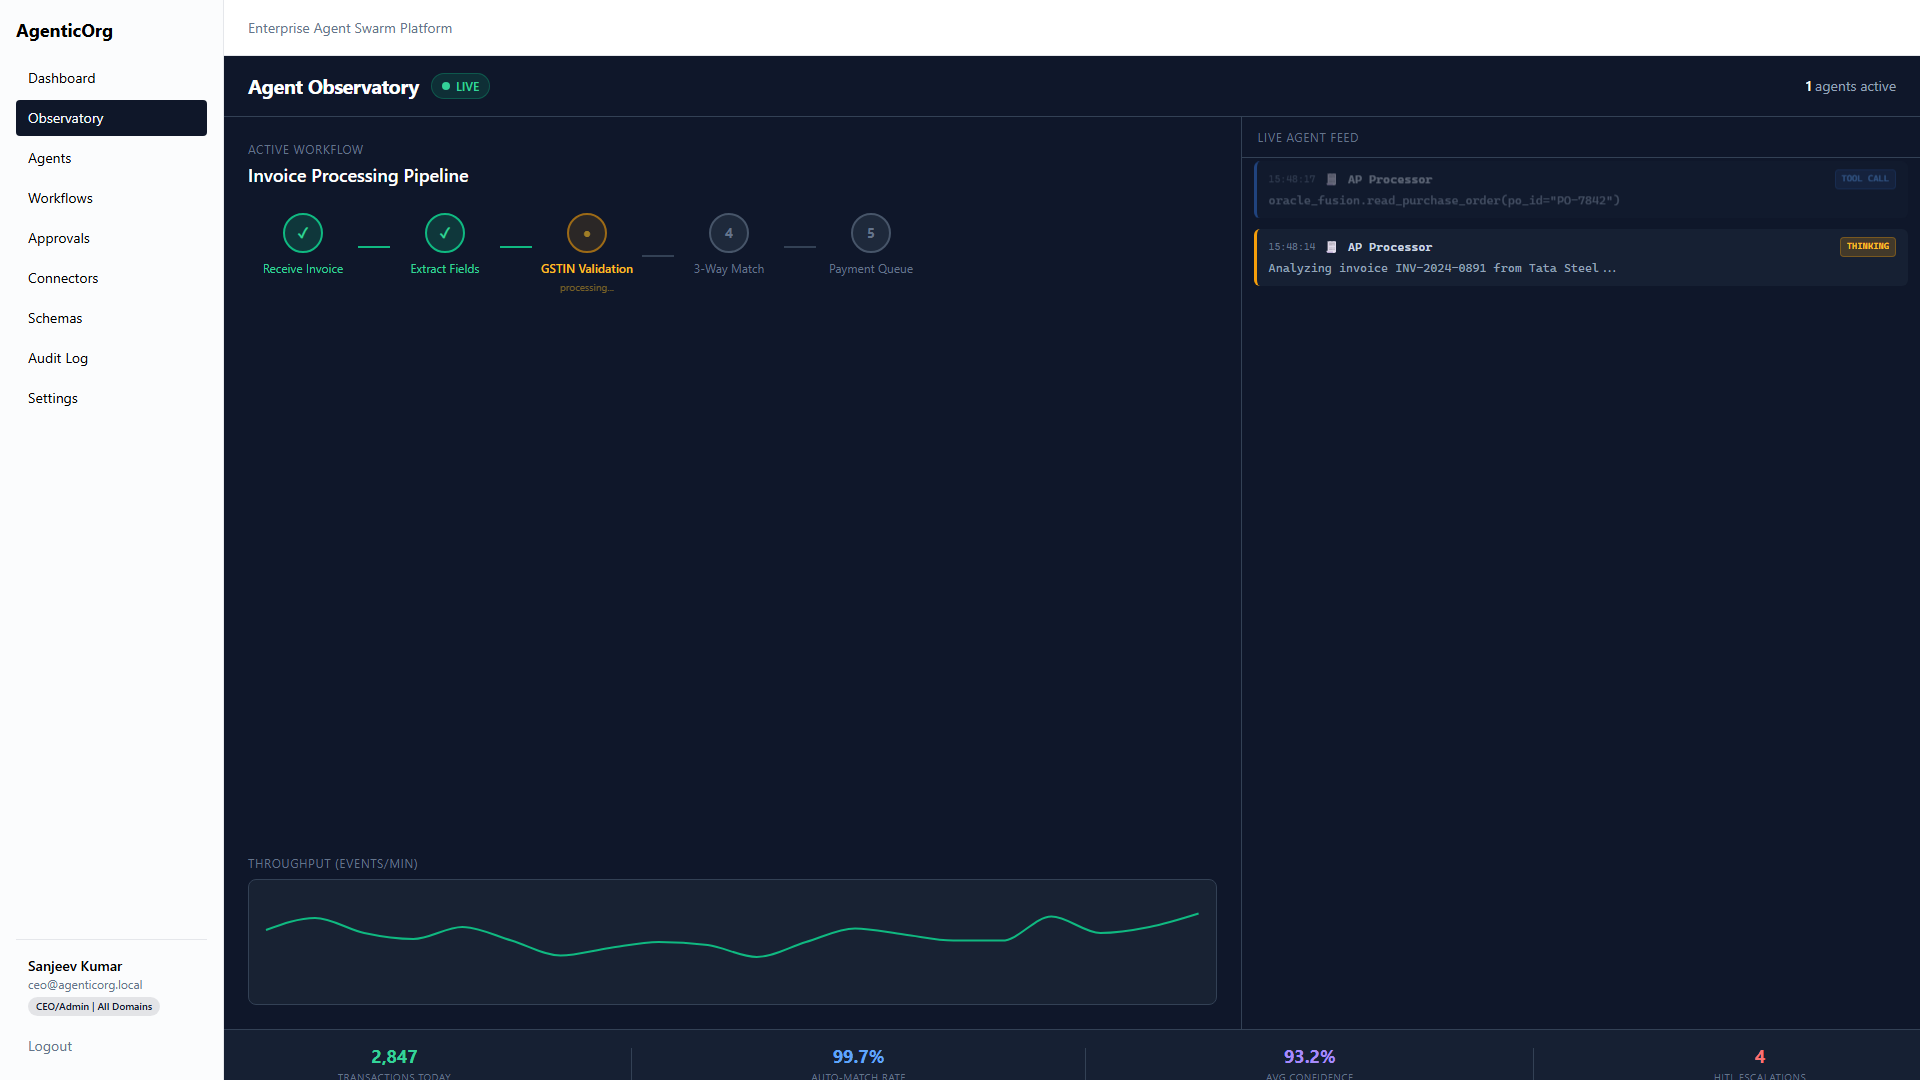
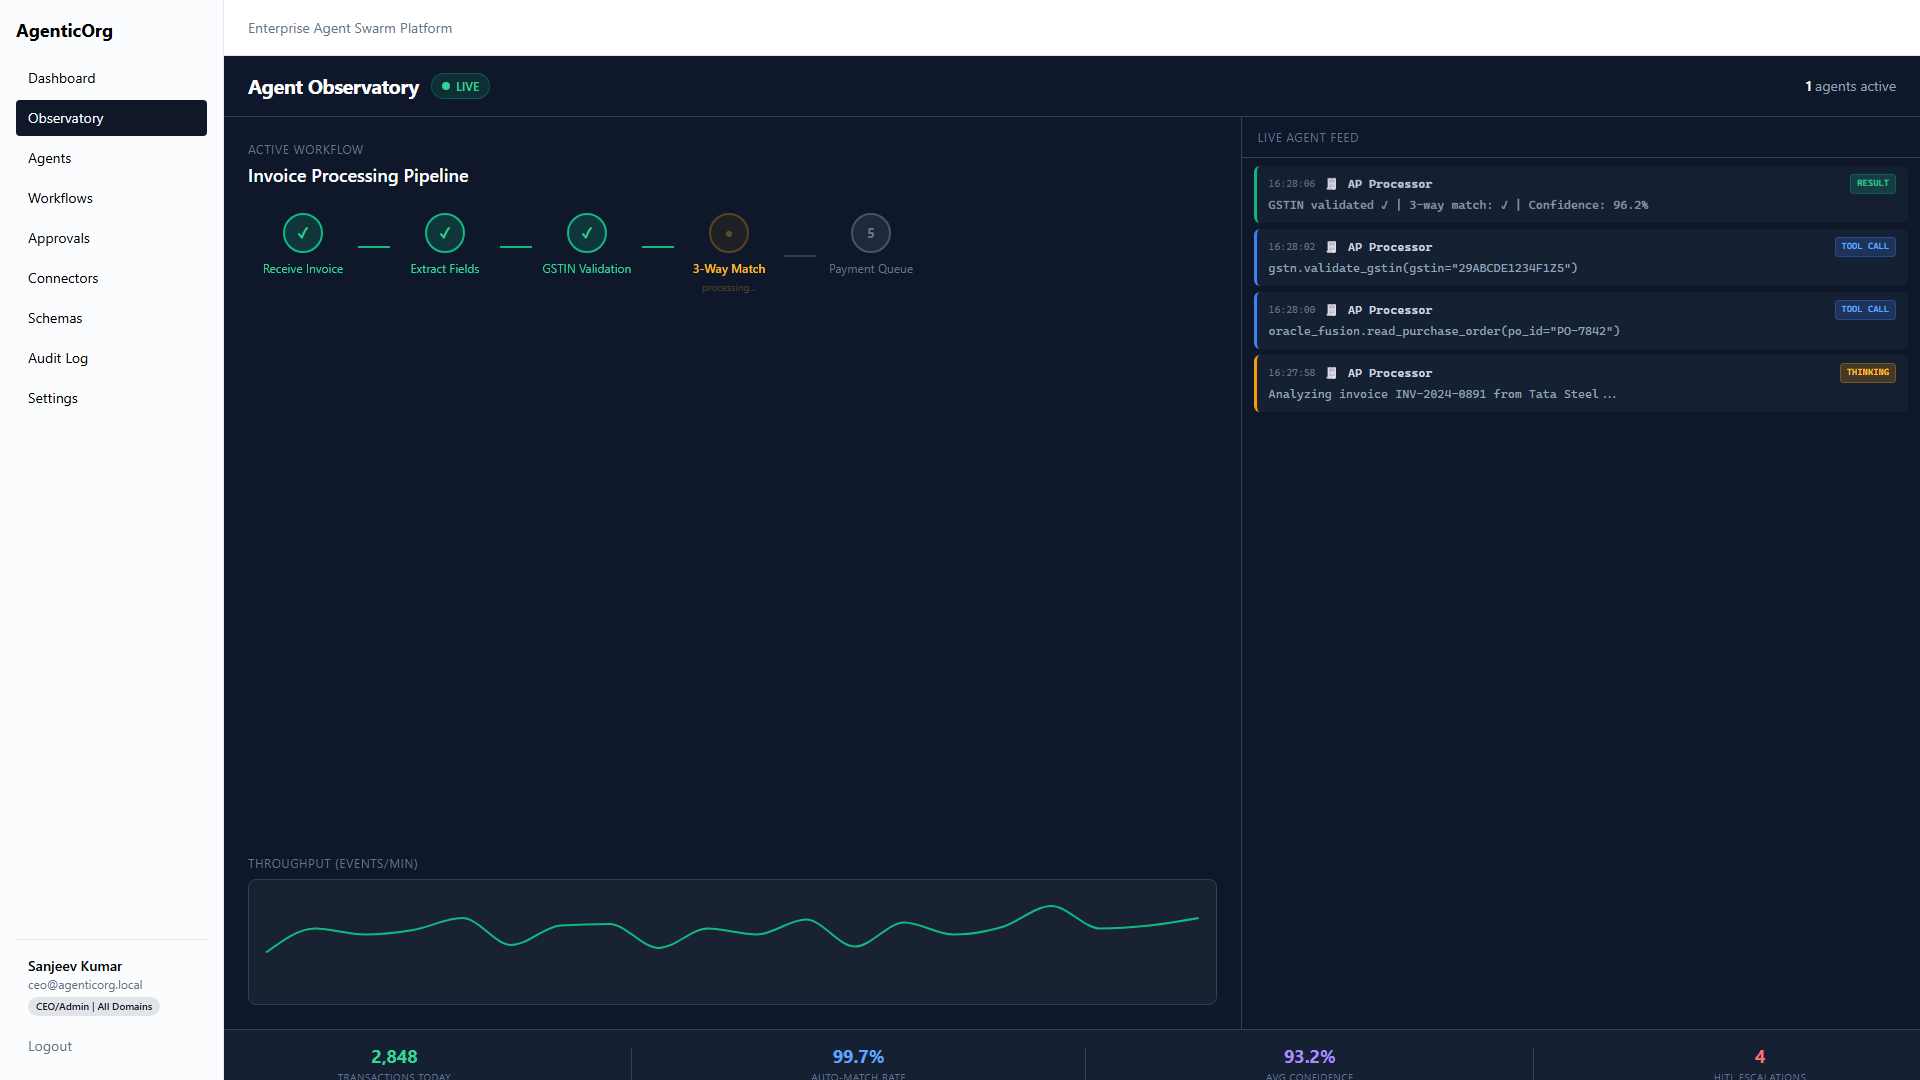
feat: Book a Demo modal form with backend storage, retake screenshots
- Replace mailto links with proper demo request form modal
- POST /api/v1/demo-request stores to DB (no email exposed in frontend)
- Form: Name, Email, Company, Role dropdown, Phone
- Success state with confirmation message
- Retake all screenshots with 5-10s wait for full data population
- Observatory screenshot now shows populated live agent feed

diff --git a/ui/src/pages/Landing.tsx b/ui/src/pages/Landing.tsx
@@ -1,4 +1,4 @@
-import { useState, useRef, useCallback } from "react";
+import { useState, useRef, useCallback, useEffect, type FormEvent } from "react";
 import { Link } from "react-router-dom";
 import ROICalculator from "../components/ROICalculator";
 
@@ -152,10 +152,169 @@ function CheckIcon({ className = "w-4 h-4 text-emerald-500" }: { className?: str
 }
 
 /* ------------------------------------------------------------------ */
+/*  DemoModal — Book-a-Demo form overlay                               */
+/* ------------------------------------------------------------------ */
+function DemoModal({ onClose }: { onClose: () => void }) {
+  const [form, setForm] = useState({ name: "", email: "", company: "", role: "", phone: "" });
+  const [submitting, setSubmitting] = useState(false);
+  const [done, setDone] = useState(false);
+  const [error, setError] = useState("");
+
+  // Close on Escape key
+  useEffect(() => {
+    const handler = (e: KeyboardEvent) => { if (e.key === "Escape") onClose(); };
+    window.addEventListener("keydown", handler);
+    return () => window.removeEventListener("keydown", handler);
+  }, [onClose]);
+
+  const handleSubmit = async (e: FormEvent) => {
+    e.preventDefault();
+    setError("");
+    setSubmitting(true);
+    try {
+      const res = await fetch("/api/v1/demo-request", {
+        method: "POST",
+        headers: { "Content-Type": "application/json" },
+        body: JSON.stringify(form),
+      });
+      if (!res.ok) throw new Error("Request failed");
+      setDone(true);
+    } catch {
+      setError("Something went wrong. Please try again.");
+    } finally {
+      setSubmitting(false);
+    }
+  };
+
+  const fieldClass =
+    "w-full rounded-lg border border-slate-300 bg-white px-4 py-2.5 text-sm text-slate-900 placeholder-slate-400 focus:border-blue-500 focus:ring-2 focus:ring-blue-500/20 outline-none transition-all";
+
+  return (
+    <div
+      className="fixed inset-0 z-[100] flex items-center justify-center bg-black/60 backdrop-blur-sm px-4"
+      onClick={(e) => { if (e.target === e.currentTarget) onClose(); }}
+    >
+      <div className="relative w-full max-w-md rounded-2xl bg-white shadow-2xl p-8 animate-in fade-in zoom-in">
+        {/* Close button */}
+        <button
+          onClick={onClose}
+          className="absolute top-4 right-4 text-slate-400 hover:text-slate-600 transition-colors"
+          aria-label="Close"
+        >
+          <svg className="w-5 h-5" fill="none" stroke="currentColor" viewBox="0 0 24 24">
+            <path strokeLinecap="round" strokeLinejoin="round" strokeWidth={2} d="M6 18L18 6M6 6l12 12" />
+          </svg>
+        </button>
+
+        {done ? (
+          <div className="text-center py-8">
+            <div className="w-16 h-16 rounded-full bg-emerald-100 flex items-center justify-center mx-auto mb-4">
+              <svg className="w-8 h-8 text-emerald-600" fill="none" stroke="currentColor" viewBox="0 0 24 24">
+                <path strokeLinecap="round" strokeLinejoin="round" strokeWidth={2} d="M5 13l4 4L19 7" />
+              </svg>
+            </div>
+            <h3 className="text-xl font-bold text-slate-900 mb-2">Thanks!</h3>
+            <p className="text-slate-600">We'll contact you within 24 hours.</p>
+            <button
+              onClick={onClose}
+              className="mt-6 inline-flex items-center justify-center bg-gradient-to-r from-blue-500 to-violet-600 text-white px-6 py-2.5 rounded-lg text-sm font-medium hover:from-blue-600 hover:to-violet-700 transition-all"
+            >
+              Close
+            </button>
+          </div>
+        ) : (
+          <>
+            <h3 className="text-xl font-bold text-slate-900 mb-1">Book a Demo</h3>
+            <p className="text-sm text-slate-500 mb-6">See AgenticOrg in action. Fill out the form and we'll schedule a call.</p>
+
+            <form onSubmit={handleSubmit} className="space-y-4">
+              <div>
+                <label className="block text-sm font-medium text-slate-700 mb-1">Name <span className="text-red-500">*</span></label>
+                <input
+                  required
+                  type="text"
+                  placeholder="Your full name"
+                  value={form.name}
+                  onChange={(e) => setForm({ ...form, name: e.target.value })}
+                  className={fieldClass}
+                />
+              </div>
+
+              <div>
+                <label className="block text-sm font-medium text-slate-700 mb-1">Work Email <span className="text-red-500">*</span></label>
+                <input
+                  required
+                  type="email"
+                  placeholder="you@company.com"
+                  value={form.email}
+                  onChange={(e) => setForm({ ...form, email: e.target.value })}
+                  className={fieldClass}
+                />
+              </div>
+
+              <div>
+                <label className="block text-sm font-medium text-slate-700 mb-1">Company</label>
+                <input
+                  type="text"
+                  placeholder="Company name"
+                  value={form.company}
+                  onChange={(e) => setForm({ ...form, company: e.target.value })}
+                  className={fieldClass}
+                />
+              </div>
+
+              <div>
+                <label className="block text-sm font-medium text-slate-700 mb-1">Role</label>
+                <select
+                  value={form.role}
+                  onChange={(e) => setForm({ ...form, role: e.target.value })}
+                  className={fieldClass}
+                >
+                  <option value="">Select your role</option>
+                  <option value="CEO">CEO</option>
+                  <option value="CFO">CFO</option>
+                  <option value="CHRO">CHRO</option>
+                  <option value="CMO">CMO</option>
+                  <option value="COO">COO</option>
+                  <option value="CTO">CTO</option>
+                  <option value="Other">Other</option>
+                </select>
+              </div>
+
+              <div>
+                <label className="block text-sm font-medium text-slate-700 mb-1">Phone</label>
+                <input
+                  type="tel"
+                  placeholder="+91 98765 43210"
+                  value={form.phone}
+                  onChange={(e) => setForm({ ...form, phone: e.target.value })}
+                  className={fieldClass}
+                />
+              </div>
+
+              {error && <p className="text-sm text-red-600">{error}</p>}
+
+              <button
+                type="submit"
+                disabled={submitting}
+                className="w-full bg-gradient-to-r from-blue-500 to-violet-600 text-white px-6 py-3 rounded-lg text-sm font-semibold hover:from-blue-600 hover:to-violet-700 transition-all shadow-lg shadow-blue-500/25 disabled:opacity-60 disabled:cursor-not-allowed"
+              >
+                {submitting ? "Submitting..." : "Request Demo"}
+              </button>
+            </form>
+          </>
+        )}
+      </div>
+    </div>
+  );
+}
+
+/* ------------------------------------------------------------------ */
 /*  Landing Page                                                       */
 /* ------------------------------------------------------------------ */
 export default function Landing() {
   const [mobileMenuOpen, setMobileMenuOpen] = useState(false);
+  const [showDemo, setShowDemo] = useState(false);
 
   const closeMobile = useCallback(() => setMobileMenuOpen(false), []);
 
@@ -191,12 +350,12 @@ export default function Landing() {
             >
               Sign In
             </Link>
-            <a
-              href="mailto:mishra.sanjeev@gmail.com?subject=AgenticOrg Demo Request&body=Hi Sanjeev,%0A%0AI'd like to book a demo of AgenticOrg.%0A%0AName:%0ACompany:%0ARole:%0APhone:%0A%0AThanks"
+            <button
+              onClick={() => setShowDemo(true)}
               className="hidden sm:inline-flex bg-gradient-to-r from-blue-500 to-violet-600 text-white px-5 py-2 rounded-lg text-sm font-medium hover:from-blue-600 hover:to-violet-700 transition-all shadow-lg shadow-blue-500/25"
             >
               Book a Demo
-            </a>
+            </button>
             <button onClick={() => setMobileMenuOpen(!mobileMenuOpen)} className="md:hidden text-white p-2" aria-label="Menu">
               <svg className="w-6 h-6" fill="none" stroke="currentColor" viewBox="0 0 24 24">
                 {mobileMenuOpen
@@ -215,7 +374,7 @@ export default function Landing() {
             <a href="#roi-calculator" onClick={closeMobile} className="block text-slate-300 hover:text-white text-sm">Pricing</a>
             <a href="#how-it-works" onClick={closeMobile} className="block text-slate-300 hover:text-white text-sm">Resources</a>
             <Link to="/login" onClick={closeMobile} className="block border border-slate-500 text-slate-300 px-4 py-2 rounded-lg text-sm font-medium text-center mt-2">Sign In</Link>
-            <a href="mailto:mishra.sanjeev@gmail.com?subject=AgenticOrg Demo Request&body=Hi Sanjeev,%0A%0AI'd like to book a demo of AgenticOrg.%0A%0AName:%0ACompany:%0ARole:%0APhone:%0A%0AThanks" onClick={closeMobile} className="block bg-gradient-to-r from-blue-500 to-violet-600 text-white px-4 py-2 rounded-lg text-sm font-medium text-center">Book a Demo</a>
+            <button onClick={() => { closeMobile(); setShowDemo(true); }} className="block w-full bg-gradient-to-r from-blue-500 to-violet-600 text-white px-4 py-2 rounded-lg text-sm font-medium text-center">Book a Demo</button>
           </div>
         )}
       </nav>
@@ -677,12 +836,12 @@ export default function Landing() {
               >
                 Start Free
               </Link>
-              <a
-                href="mailto:mishra.sanjeev@gmail.com?subject=AgenticOrg Demo Request&body=Hi Sanjeev,%0A%0AI'd like to book a demo of AgenticOrg.%0A%0AName:%0ACompany:%0ARole:%0APhone:%0A%0AThanks"
+              <button
+                onClick={() => setShowDemo(true)}
                 className="w-full sm:w-auto inline-flex items-center justify-center gap-2 border border-slate-600 text-slate-300 px-8 py-3.5 rounded-xl text-base font-semibold hover:bg-slate-800 hover:text-white transition-all"
               >
                 Book a Demo
-              </a>
+              </button>
             </div>
           </FadeIn>
         </div>
@@ -770,6 +929,9 @@ export default function Landing() {
           </div>
         </div>
       </footer>
+
+      {/* Demo modal */}
+      {showDemo && <DemoModal onClose={() => setShowDemo(false)} />}
     </div>
   );
 }

diff --git a/api/v1/demo.py b/api/v1/demo.py
@@ -1,0 +1,46 @@
+"""Demo request endpoint."""
+from __future__ import annotations
+
+from fastapi import APIRouter
+from pydantic import BaseModel
+from sqlalchemy import text
+
+from core.database import async_session_factory
+
+router = APIRouter()
+
+
+class DemoRequest(BaseModel):
+    name: str
+    email: str
+    company: str = ""
+    role: str = ""
+    phone: str = ""
+
+
+@router.post("/demo-request", status_code=201)
+async def submit_demo_request(body: DemoRequest):
+    """Accept a demo request and persist it."""
+    async with async_session_factory() as session:
+        await session.execute(
+            text(
+                "CREATE TABLE IF NOT EXISTS demo_requests ("
+                "id SERIAL PRIMARY KEY, name TEXT, email TEXT, company TEXT, "
+                "role TEXT, phone TEXT, created_at TIMESTAMPTZ DEFAULT NOW())"
+            )
+        )
+        await session.execute(
+            text(
+                "INSERT INTO demo_requests (name, email, company, role, phone) "
+                "VALUES (:name, :email, :company, :role, :phone)"
+            ),
+            {
+                "name": body.name,
+                "email": body.email,
+                "company": body.company,
+                "role": body.role,
+                "phone": body.phone,
+            },
+        )
+        await session.commit()
+    return {"status": "received", "message": "We'll be in touch within 24 hours."}

diff --git a/api/main.py b/api/main.py
@@ -23,6 +23,7 @@ from api.v1 import (
 from api.v1 import (
     auth as v1_auth,
 )
+from api.v1 import demo as v1_demo
 from api.websocket.feed import router as ws_feed_router
 from auth.middleware import AuthMiddleware
 from core.config import settings
@@ -76,4 +77,5 @@ app.include_router(schemas.router, prefix="/api/v1", tags=["Schemas"])
 app.include_router(connectors.router, prefix="/api/v1", tags=["Connectors"])
 app.include_router(compliance.router, prefix="/api/v1", tags=["Compliance"])
 app.include_router(config.router, prefix="/api/v1", tags=["Config"])
+app.include_router(v1_demo.router, prefix="/api/v1", tags=["Demo"])
 app.include_router(ws_feed_router, prefix="/api/v1", tags=["WebSocket"])

diff --git a/auth/middleware.py b/auth/middleware.py
@@ -25,6 +25,7 @@ class AuthMiddleware(BaseHTTPMiddleware):
     EXEMPT_PATHS = {
         "/api/v1/health", "/api/v1/health/liveness", "/api/v1/auth/login",
         "/api/v1/auth/google", "/api/v1/auth/config",
+        "/api/v1/demo-request",
         "/docs", "/openapi.json", "/redoc",
     }
 
